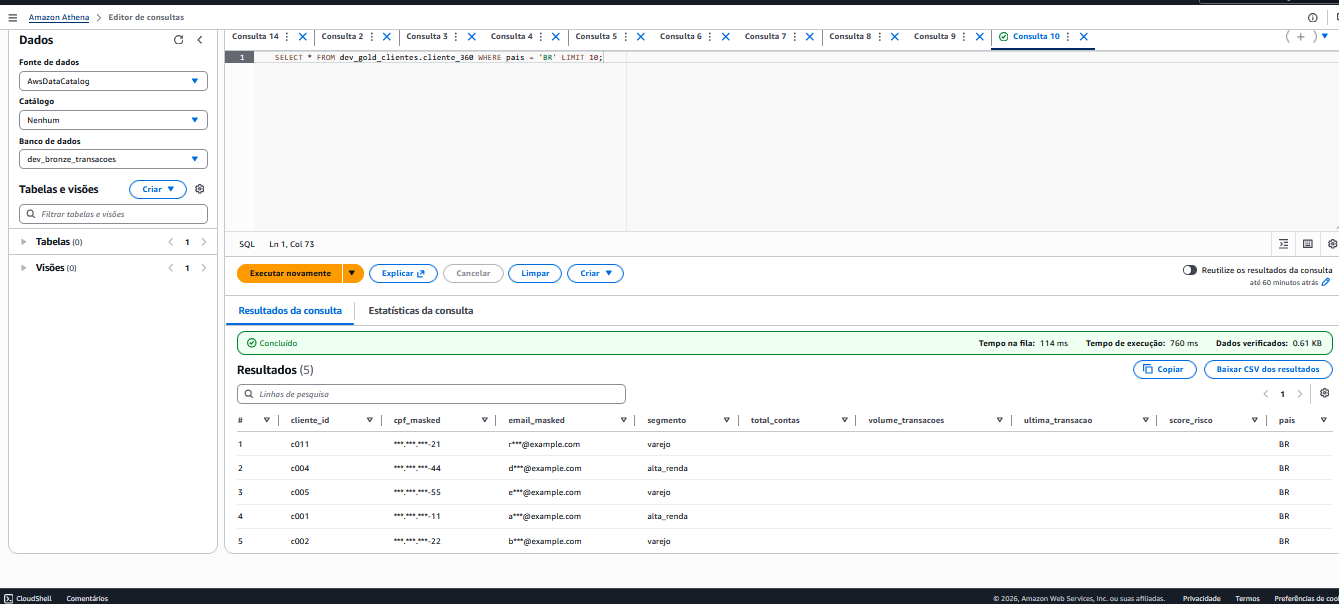
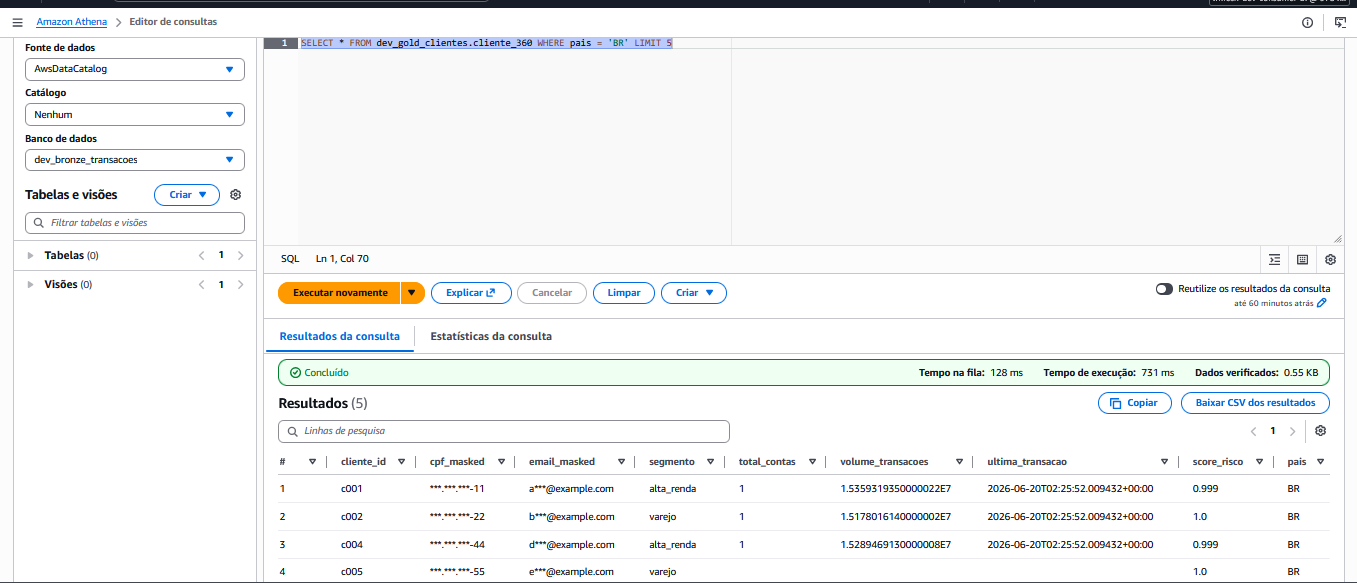
feat: melhorias docs e consulta de riscos vs clientes

diff --git a/envs/dev/domains/clientes/scripts/silver_to_gold.py b/envs/dev/domains/clientes/scripts/silver_to_gold.py
@@ -18,19 +18,86 @@ SALT = "lfmesh-clientes-2026"
 source_path = f"s3://{args['source_bucket']}/{args['source_prefix']}/"
 target_path = f"s3://{args['target_bucket']}/{args['target_prefix']}/"
 
-# Lê silver (particionado por pais)
+# Lê silver clientes (particionado por pais)
 df = spark.read.option("basePath", source_path).parquet(source_path)
-print(f"Silver: {df.count()} registros")
+print(f"Silver clientes: {df.count()} registros")
 
-# Enriquecimento: colunas de outros domínios (NULL por agora)
-df = (
-    df.withColumn("total_contas", F.lit(None).cast("int"))
-      .withColumn("volume_transacoes", F.lit(None).cast("double"))
-      .withColumn("ultima_transacao", F.lit(None).cast("string"))
-      .withColumn("score_risco", F.lit(None).cast("string"))
-)
+# --- Enriquecimento cross-dominio via leitura direta S3 ---
+# Partition projection e feature do Athena, nao do Spark.
+# Lemos diretamente o path S3 registrado no Lake Formation.
 
-# Mascaramento PII: hash com salt + partial mask + drop originais
+account_id = spark.conf.get("spark.hadoop.fs.s3.awsAccountId", "")
+if not account_id:
+    import boto3
+    account_id = boto3.client("sts").get_caller_identity()["Account"]
+
+prefix = f"lfmesh-dev"
+
+# Contas: total de contas ativas por cliente
+try:
+    contas_path = f"s3://{prefix}-contas-gold-{account_id}/contas_ativas/"
+    df_contas = spark.read.parquet(contas_path)
+
+    df_contas_agg = (
+        df_contas.groupBy("cliente_id")
+        .agg(F.count("conta_id").alias("total_contas"))
+    )
+    print(f"Contas ativas: {df_contas_agg.count()} clientes com contas")
+except Exception as e:
+    print(f"Aviso: nao foi possivel ler contas_ativas - {e}")
+    df_contas_agg = None
+
+# Transacoes: volume total e ultima transacao por cliente
+try:
+    txn_path = f"s3://{prefix}-transacoes-gold-{account_id}/transacoes_curated/"
+    df_txn = spark.read.parquet(txn_path)
+
+    df_txn_agg = (
+        df_txn.groupBy("cliente_id")
+        .agg(
+            F.sum("valor").alias("volume_transacoes"),
+            F.max("data_transacao").alias("ultima_transacao")
+        )
+    )
+    print(f"Transacoes curated: {df_txn_agg.count()} clientes com transacoes")
+except Exception as e:
+    print(f"Aviso: nao foi possivel ler transacoes_curated - {e}")
+    df_txn_agg = None
+
+# Riscos: max score_risco por cliente (pior caso)
+try:
+    riscos_path = f"s3://{prefix}-riscos-gold-{account_id}/alertas_fraude/"
+    df_riscos = spark.read.parquet(riscos_path)
+
+    df_riscos_agg = (
+        df_riscos.groupBy("cliente_id")
+        .agg(F.max("score_risco").alias("score_risco_raw"))
+        .withColumn("score_risco", F.col("score_risco_raw").cast("string"))
+        .drop("score_risco_raw")
+    )
+    print(f"Alertas fraude: {df_riscos_agg.count()} clientes com score de risco")
+except Exception as e:
+    print(f"Aviso: nao foi possivel ler alertas_fraude - {e}")
+    df_riscos_agg = None
+
+# Left join: clientes <- contas <- transacoes <- riscos
+if df_contas_agg is not None:
+    df = df.join(df_contas_agg, on="cliente_id", how="left")
+else:
+    df = df.withColumn("total_contas", F.lit(None).cast("int"))
+
+if df_txn_agg is not None:
+    df = df.join(df_txn_agg, on="cliente_id", how="left")
+else:
+    df = df.withColumn("volume_transacoes", F.lit(None).cast("double"))
+    df = df.withColumn("ultima_transacao", F.lit(None).cast("string"))
+
+if df_riscos_agg is not None:
+    df = df.join(df_riscos_agg, on="cliente_id", how="left")
+else:
+    df = df.withColumn("score_risco", F.lit(None).cast("string"))
+
+# --- Mascaramento PII: hash com salt + partial mask + drop originais ---
 df_gold = (
     df.withColumn("cpf_hash", F.sha2(F.concat(F.col("cpf"), F.lit(SALT)), 256))
       .withColumn("email_hash", F.sha2(F.concat(F.col("email"), F.lit(SALT)), 256))
@@ -43,14 +110,16 @@ df_gold = (
 df_gold = df_gold.select(
     "cliente_id", "nome", "cpf_masked", "cpf_hash",
     "email_masked", "email_hash", "segmento",
-    "total_contas", "volume_transacoes", "ultima_transacao", "score_risco",
+    F.col("total_contas").cast("int"),
+    F.col("volume_transacoes").cast("double"),
+    "ultima_transacao", "score_risco",
     "pais"
 )
 
-print(f"Gold: {df_gold.count()} registros mascarados")
+print(f"Gold: {df_gold.count()} registros enriquecidos e mascarados")
 
 # Grava particionado por pais (overwrite)
 df_gold.write.mode("overwrite").partitionBy("pais").parquet(target_path)
-print("Transformação silver → gold concluída (PII mascarada com salt)")
+print("Transformacao silver -> gold concluida (360 real + PII mascarada)")
 
 job.commit()

diff --git a/docs/VALIDACAO-END-TO-END.md b/docs/VALIDACAO-END-TO-END.md
@@ -10,14 +10,14 @@ Este documento registra os testes executados para validar o funcionamento comple
 
 ---
 
-## 1. Pipeline clientes — dados mascarados na gold
+## 1. Pipeline clientes — visao 360 com dados cross-dominio e mascaramento PII
 
 ### Comando
 
 ```bash
 # Workgroup: lfmesh-dev-auditoria (admin full access)
 aws athena start-query-execution \
-  --query-string "SELECT cliente_id, nome, cpf_masked, cpf_hash, email_masked, email_hash, segmento FROM dev_gold_clientes.cliente_360 WHERE pais = 'BR' LIMIT 5" \
+  --query-string "SELECT * FROM dev_gold_clientes.cliente_360 WHERE pais = 'BR' LIMIT 5" \
   --work-group "lfmesh-dev-auditoria"
 ```
 
@@ -27,16 +27,21 @@ aws athena start-query-execution \
 - Coluna `email_masked` com formato `x***@dominio`
 - Coluna `cpf_hash` e `email_hash` com SHA256 de 64 caracteres (hash com salt)
 - Colunas `cpf` e `email` originais **nao existem** na tabela
+- `total_contas` preenchido com dados reais do dominio `contas` (join por cliente_id)
+- `volume_transacoes` e `ultima_transacao` preenchidos com dados reais do dominio `transacoes`
+- `score_risco` preenchido com max score do dominio `riscos`
 
 ### Resultado obtido
 
-| cliente_id | nome | cpf_masked | cpf_hash | email_masked | email_hash | segmento |
-|---|---|---|---|---|---|---|
-| c001 | Ana Silva | ***.***.***-11 | 534a4a8e... | a***@example.com | 8e43ca37... | alta_renda |
-| c002 | Bruno Souza | ***.***.***-22 | d5996b25... | b***@example.com | 2dcfeb08... | varejo |
-| c004 | Daniel Rocha | ***.***.***-44 | 34ce32f4... | d***@example.com | 1762b4d0... | alta_renda |
-| c005 | Elena Martins | ***.***.***-55 | a96fb099... | e***@example.com | f309168b... | varejo |
-| c011 | Roberto Costa | ***.***.***-21 | 6de27dc7... | r***@example.com | 7afcb3d3... | varejo |
+| cliente_id | nome | cpf_masked | segmento | total_contas | volume_transacoes | ultima_transacao | score_risco |
+|---|---|---|---|---|---|---|---|
+| c001 | Ana Silva | ***.***.***-11 | alta_renda | 1 | ~15.3M | 2026-06-20T02:25 | 0.999 |
+| c002 | Bruno Souza | ***.***.***-22 | varejo | 1 | ~15.1M | 2026-06-20T02:25 | 1.0 |
+| c004 | Daniel Rocha | ***.***.***-44 | alta_renda | 1 | ~15.2M | 2026-06-20T02:25 | 0.999 |
+| c005 | Elena Martins | ***.***.***-55 | varejo | - | - | - | 1.0 |
+| c011 | Roberto Costa | ***.***.***-21 | varejo | - | - | - | - |
+
+Clientes sem dados nos dominios de contas/transacoes/riscos ficam com NULL (left join).
 
 ### Screenshot
 
@@ -266,7 +271,7 @@ aws glue get-job-runs --job-name lfmesh-dev-riscos-streaming-to-bronze --max-ite
 
 | # | Teste | Status |
 |---|-------|--------|
-| 1 | Pipeline clientes — mascaramento PII na gold | ✅ |
+| 1 | Pipeline clientes — visao 360 real + mascaramento PII | ✅ |
 | 2 | Governanca — BI sem nome/hashes (clientes) | ✅ |
 | 3 | Governanca — BI sem saldo (contas) | ✅ |
 | 4 | Governanca — acesso negado a bronze | ✅ |

diff --git a/README.md b/README.md
@@ -94,7 +94,7 @@ O dominio `clientes` implementa mascaramento de PII como padrao de referencia:
 - **Silver**: campos originais mantidos + colunas `cpf_hash` e `email_hash` (SHA256 com salt irreversivel) para joins tecnicos
 - **Gold**: campos `cpf` e `email` substituidos por versoes mascaradas (`***.***.***-XX`, `x***@dominio`) e hashes. O dado original nao existe na camada exposta
 
-Resultado: nenhuma persona consumidora ve CPF ou email em texto claro, mesmo com acesso direto ao S3. Data Science pode fazer joins cross-dominio via hash. Detalhes em [docs/MASCARAMENTO.md](docs/MASCARAMENTO.md).
+Resultado: nenhuma persona consumidora ve CPF ou email em texto claro, mesmo com acesso direto ao S3. O campo `nome` permanece em claro na gold por decisao de design (necessario para risco-fraude e auditoria), mas e controlado por Data Cells Filter — `bi` e `data-science` nao o veem. Data Science pode fazer joins cross-dominio via hash. Detalhes em [docs/MASCARAMENTO.md](docs/MASCARAMENTO.md).
 
 ### Exemplos de governanca implementada
 
@@ -250,7 +250,7 @@ SELECT * FROM dev_gold_transacoes.transacoes_curated WHERE pais = 'BR' LIMIT 10;
 SELECT * FROM dev_gold_riscos.alertas_fraude WHERE pais = 'BR' LIMIT 10;
 ```
 
-Depois, valide a governanca assumindo as roles consumidoras e testando os workgroups correspondentes.
+Depois, valide a governanca assumindo as roles consumidoras e testando os workgroups correspondentes. Para detalhes completos dos testes, veja [docs/VALIDACAO-END-TO-END.md](docs/VALIDACAO-END-TO-END.md).
 
 ## Custos
 
@@ -301,7 +301,8 @@ Se voce estiver fazendo limpeza completa do ambiente, destrua a camada `network`
 │   ├── DEPLOY.md
 │   ├── MASCARAMENTO.md
 │   ├── MODELO-MULTI-ACCOUNT-REAL.md
-│   └── PLANO-INGESTAO.md
+│   ├── PLANO-INGESTAO.md
+│   └── VALIDACAO-END-TO-END.md
 ├── modules
 │   ├── consumer-roles
 │   ├── foundation

diff --git a/docs/CUSTOS.md b/docs/CUSTOS.md
@@ -25,7 +25,7 @@ Hoje, os maiores drivers de custo sao:
 | Estado ou dominio | Recursos principais | Perfil de custo |
 | --- | --- | --- |
 | `network` | `S3 Gateway Endpoint` + `Glue Interface Endpoint` + `Secrets Manager Interface Endpoint` | recorrente baixo a moderado |
-| `clientes` | S3 + Glue Python Shell + Athena | baixo, custo por execucao |
+| `clientes` | S3 + Glue ETL PySpark + Athena | baixo a moderado, custo por execucao |
 | `parceiros` | API Gateway + Lambda + 2 jobs Glue | baixo a moderado, custo por execucao |
 | `contas` | RDS `db.t3.micro` + DMS `dms.t3.small` + Secrets Manager + Glue | recorrente, mesmo parado |
 | `transacoes` | MSK Provisioned + MSK Connect + Secret + KMS + Glue | recorrente e significativo |